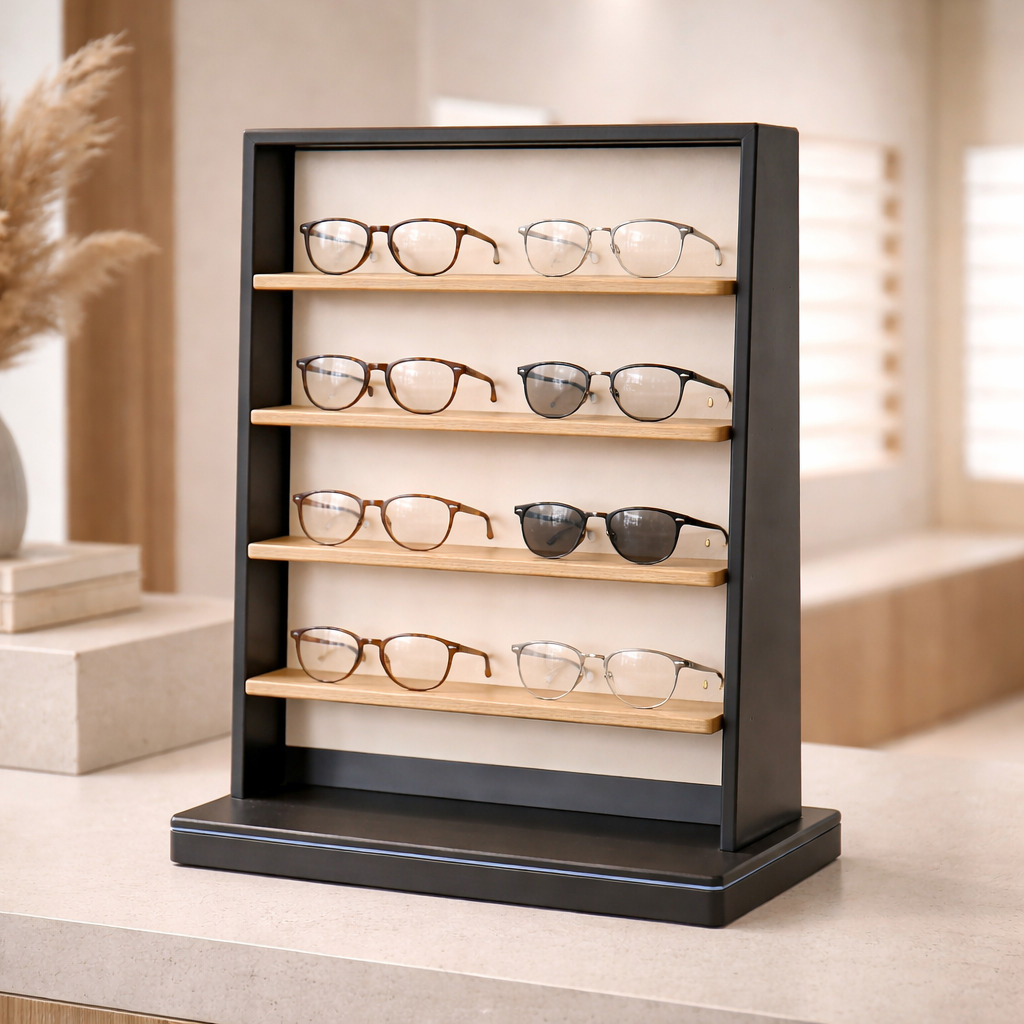
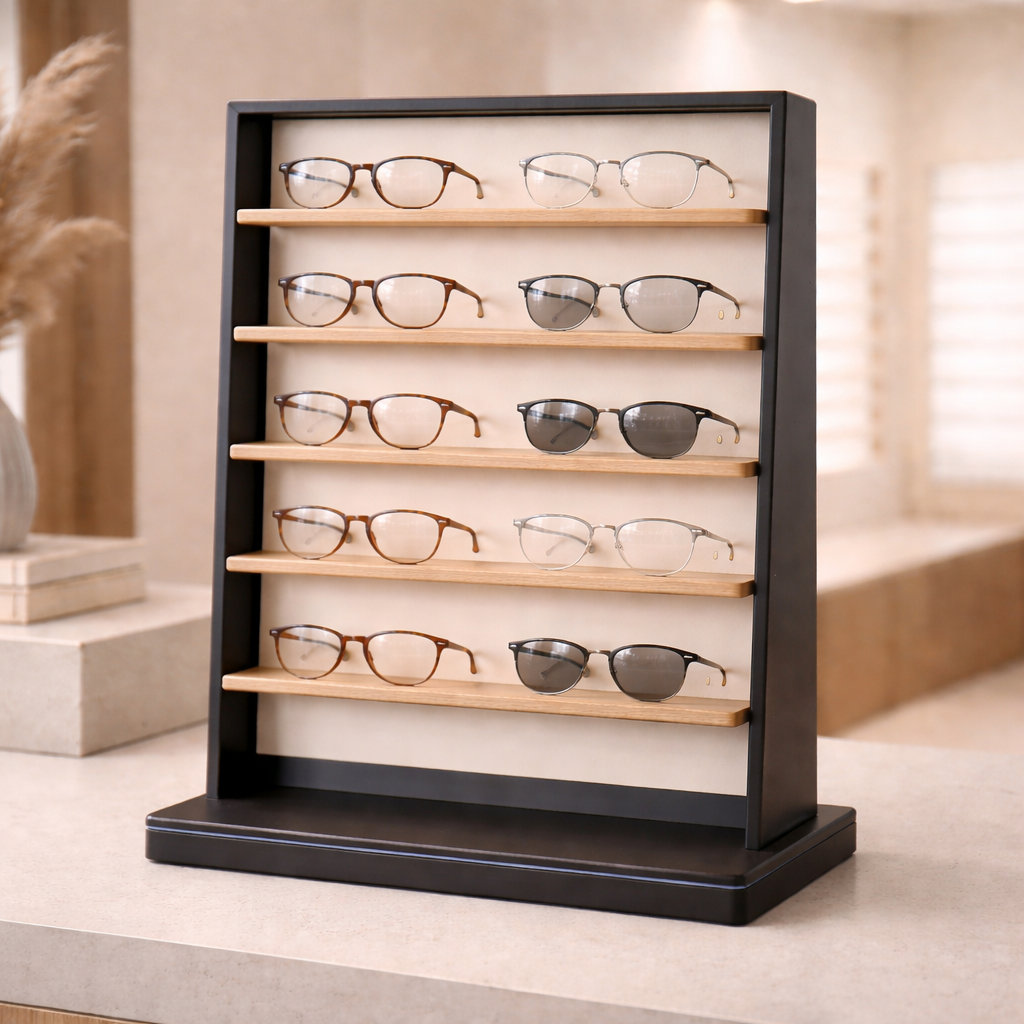
feat(Nibiru-Home/sprints#52): Fotos en cada producto

diff --git a/src/app/components/pages/product-detail/product-detail.html b/src/app/components/pages/product-detail/product-detail.html
@@ -3,15 +3,10 @@
     <div class="product-detail__media">
       <img [src]="'/images/products/' + product.image" [alt]="product.name" />
     </div>
-    <div class="product-detail__thumbs">
-      <button class="product-detail__thumb" type="button" aria-label="Vista principal">
-        <img src="/images/products/7.jpg" alt="Lampara de techo en sala" />
-      </button>
-      <button class="product-detail__thumb" type="button" aria-label="Vista alternativa 1">
-        <img src="/images/products/11.jpg" alt="Lampara de techo en pasillo" />
-      </button>
-      <button class="product-detail__thumb" type="button" aria-label="Vista alternativa 2">
-        <img src="/images/products/12.jpg" alt="Lampara de techo en comedor" />
+    <div class="product-detail__thumbs" *ngIf="product.images && product.images.length > 0">
+      <button class="product-detail__thumb" type="button" *ngFor="let img of product.images; let i = index"
+        [attr.aria-label]="'Vista alternativa ' + (i + 1)" (click)="product.image = img">
+        <img [src]="'/images/products/' + img" [alt]="product.name" />
       </button>
     </div>
   </div>

diff --git a/src/app/models/product.model.ts b/src/app/models/product.model.ts
@@ -12,6 +12,7 @@ export interface Product {
     price: number;
     stock: number;
     image: string;
+    images: string[];
     category: Category[];
     styles: Style[];
 }

diff --git a/src/app/components/pages/product-detail/product-detail.ts b/src/app/components/pages/product-detail/product-detail.ts
@@ -23,6 +23,7 @@ export class ProductDetailPage implements OnInit {
     price: 0,
     stock: 0,
     image: '',
+    images: [],
     category: [],
     styles: []
   };
